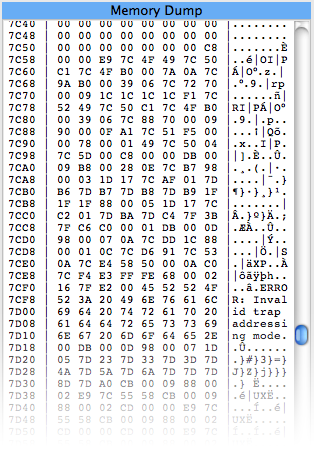
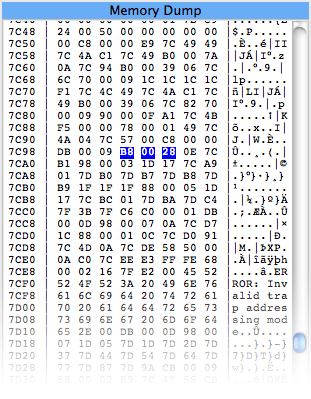
Slight change to the stack pointer highlight (magenta now), as well as more documentation screenshot updates.

diff --git a/help/debuggingprograms.html b/help/debuggingprograms.html
@@ -39,7 +39,7 @@ View the Memory Dump pane by selecting View->Code/CPU/Memory from the menu or by
 The Pep/8 application may run noticibly slower when the Memory Dump pane is visible.
 You can click either of the other two view icons to hide the Memory Dump pane.
 <p>
- <i>Image of the other two view icons.</i>
+ <img src="images/codecodememory.png" alt="codecodememory" hspace=10 vspace=10>
 <h4>Switching to debug mode</h4>
 To use the Memory Dump pane you must first switch to the debug mode.
 If you are debugging a machine language program that you wrote, the first step is to enter the program in hexadecimal in the Object Code pane.
@@ -100,6 +100,10 @@ The Operand field in the CPU pane is enclosed in parentheses to emphasize the fa
  The following screen shot shows the Memory Dump pane after the first click of the Single Step button.
 <p>
 <img src="qrc:/help/images/fig0434memorydump.png" alt="fig0434memorydump" hspace=10 vspace=10>
+<p>
+<i>The Memory Dump pane will also highlight the stack pointer in magenta, as in this screenshot of Figure 6.1's stack:</i>
+<p>
+<img src="qrc:/help/images/stackpointer.png" alt="stackpointer" hspace=10 vspace=10>
 <p>
 Each line of the Memory Dump pane displays eight bytes, each byte represented as two hexadecimal digits.
 The address in the first column is the address of the first byte.

diff --git a/help/writingprograms.html b/help/writingprograms.html
@@ -33,7 +33,7 @@ You can change which of these panels is visible by making the appropriate select
 icon on the tool bar.
 <p>
 <img src="qrc:/help/images/codecpumemory.png" alt="codecpumemory" hspace=10 vspace=10>
-<img src="qrc:/help/images/codecpumemoryicon.png" alt="codecpumemoryicon" hspace=10 vspace=10>
+<img src="qrc:/help/images/viewicon.png" alt="viewicon" hspace=10 vspace=10>
 <p>
 
 <h3><a name="Input">Input and output</a></h3>

diff --git a/memorydumppane.cpp b/memorydumppane.cpp
@@ -106,7 +106,7 @@ void MemoryDumpPane::highlightMemory(bool b)
     }
 
     if (b) {
-        highlightByte(Sim::stackPointer, Qt::white, Qt::darkCyan);
+        highlightByte(Sim::stackPointer, Qt::white, Qt::darkMagenta);
         highlightedData.append(Sim::stackPointer);
         
         if (!Pep::isUnaryMap.value(Pep::decodeMnemonic.value(Sim::readByte(Sim::programCounter)))) {
